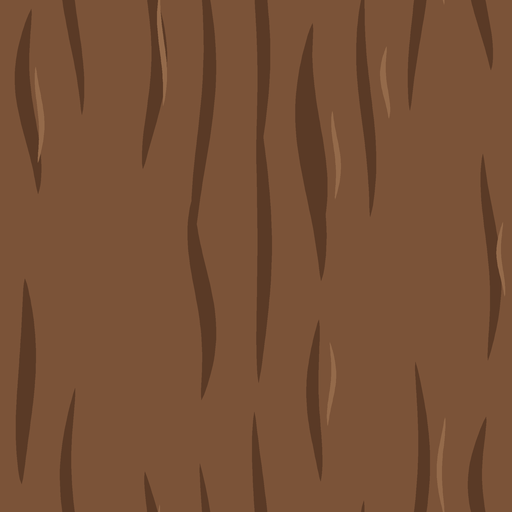
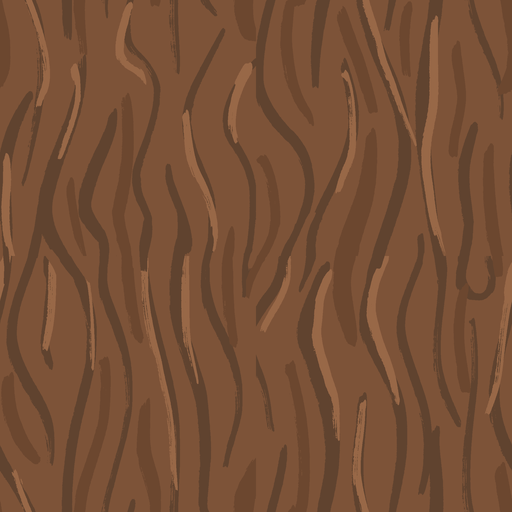
Hand-drawn bark everywhere; bigger Menu button; darker Run backdrop leaves; tighter turn window

diff --git a/run.js b/run.js
@@ -27,9 +27,10 @@
   const BOUGH_Y = 1.25; // a bough's underside above the branch
   const BOUGH_HALF = 0.6; // half its thickness along the branch
 
-  const TURN_EARLY = 1.2; // seconds before a corner from when a swipe left or right counts
+  const TURN_EARLY = 0.8; // seconds before a corner from when a swipe left or right counts
   const TURN_LATE = 0.15; // seconds past it that one still makes the turn (no further than the bend)
   const SWIPE_PX = 28;
+  const BARK_TILE = 6; // how much branch one copy of the bark picture covers, each way
   const BEND_R = 2.6; // the radius of the branch's bend at a corner (more than its own, so the inside doesn't pinch)
 
   const DROP_G = 2 * GRAVITY; // each new apple drops onto the branch (common.js DropIn)
@@ -43,6 +44,7 @@
   const CANOPY_MID = 17.5; // the middle of its canopy, above its foot
   const FADE_NEAR = 120; // where things start to fade into the tree's insides…
   const FADE_FAR = 380; // …and are gone, so far off a branch is only a few pixels across
+  const LEAF_DEEP = "0.55"; // how dark the backdrop's leaves are (GLSL: a float), as Royale's tree's deep inside
   const AHEAD = FADE_FAR + 40; // how far ahead the branch is kept built, past where it's faded out
 
   const dirOf = (h) => new V3(Math.round(Math.sin((h * Math.PI) / 2)), 0, Math.round(Math.cos((h * Math.PI) / 2)));
@@ -69,6 +71,11 @@
   }
   vec3 surround(vec3 d) {
     vec3 tree = textureCube(sky, vec3(d.x, -d.y, d.z)).rgb; // the probe's cube comes out upside down
+    // The leaves (and apples) deep in the canopy, darker, as in Royale's
+    // tree: all but the sky and clouds between them (as blue as they are
+    // anything else).
+    float open = smoothstep(0.0, 0.08, tree.b - max(tree.r, tree.g) + 0.08);
+    tree *= mix(${LEAF_DEEP}, 1.0, open);
     return mix(tree, DEPTHS, depths(d));
   }
   // Colour c of something at world, seen from eye: faded into the backdrop
@@ -195,7 +202,7 @@
     for (let i = 0; i < path.length; i++) {
       const frame = frames[i];
       const r = radius(lens[i] / total);
-      const around = Math.max(1, Math.round((2 * Math.PI * r) / 4)); // the bark texture: 4 units across
+      const around = Math.max(1, Math.round((2 * Math.PI * r) / BARK_TILE)); // copies of the bark round it
       for (let k = 0; k <= SIDES; k++) {
         const a = (2 * Math.PI * k) / SIDES;
         const dir = frame.side.scale(Math.cos(a)).add(frame.up.scale(Math.sin(a)));
@@ -204,7 +211,7 @@
         const p = path[i].add(dir.scale(r * (1 + bump)));
         positions.push(p.x, p.y, p.z);
         normals.push(dir.x, dir.y, dir.z);
-        uvs.push((around * k) / SIDES, lens[i] / 4);
+        uvs.push((around * k) / SIDES, lens[i] / BARK_TILE);
         if (i > 0 && k < SIDES) {
           const c = i * (SIDES + 1) + k;
           const b = c - (SIDES + 1);

diff --git a/common.css b/common.css
@@ -35,17 +35,24 @@ body {
   outline: none;
 }
 
-/* Menu, at the top left: back to the title. */
+/* Menu, at the top left: back to the title. The size of the title's Local
+   and Online buttons (index.html #title .play): half the title's width, and
+   as tall as theirs with its second, small line. */
 .menu-button {
+  display: flex;
+  align-items: center;
+  justify-content: center;
+  width: calc((min(420px, 100vw - 32px) - 12px) / 2);
+  height: calc(1.47em + 20px);
   font: inherit;
-  font-size: clamp(17px, 4.6vw, 21px);
+  font-size: clamp(26px, 7vw, 34px);
   color: #fff;
   text-decoration: none;
   background: #d8262b;
   border: 3px solid #2a1208;
-  border-radius: 12px;
-  padding: 4px 14px 2px;
-  box-shadow: 0 4px 0 #2a1208;
+  border-radius: 14px;
+  padding: 0;
+  box-shadow: 0 5px 0 #2a1208;
   text-shadow: 0 2px 0 rgba(0, 0, 0, 0.35);
   cursor: pointer;
 }
@@ -53,7 +60,7 @@ body {
   display: none;
 }
 .menu-button:active {
-  transform: translateY(3px);
+  transform: translateY(4px);
   box-shadow: 0 1px 0 #2a1208;
 }
 

diff --git a/index.html b/index.html
@@ -19,6 +19,12 @@
         align-items: center;
         gap: 12px;
       }
+      /* On a phone the status line sits low beside Menu, under the name box. */
+      @media (max-width: 600px) {
+        #topleft {
+          align-items: flex-end;
+        }
+      }
       #hud {
         color: #fff;
         /* Scales down on narrow phones so it never reaches the name box. */
